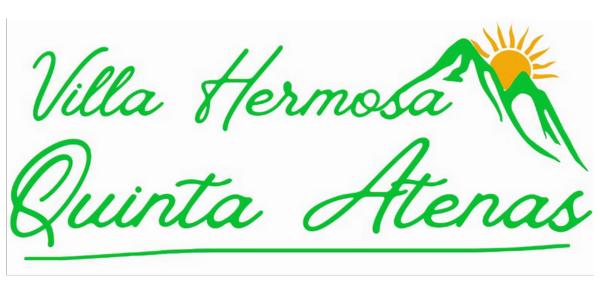
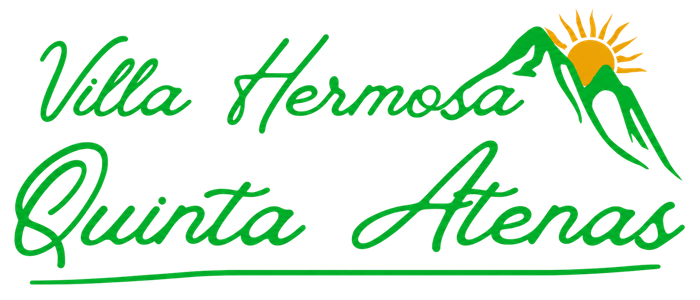
done

Changed region(s): [[0.0, 0.45, 0.99, 0.96], [0.33, 0.03, 0.99, 0.6], [0.03, 0.12, 0.27, 0.42]]

diff --git a/QuintaAtenas-v2.html b/QuintaAtenas-v2.html
@@ -640,7 +640,7 @@
 
   <!-- LOGO STRIP — logo izq + tagline/pill der con efecto scroll -->
   <div class="logo-strip fade-up" id="logoStrip">
-    <img src="img/img/villaatenas.png" alt="Quinta Vacacional" onerror="this.style.display='none'" />
+    <img src="img/img/quintaatenas.png" alt="Quinta Vacacional" onerror="this.style.display='none'" />
 
     <div class="strip-right">
 
